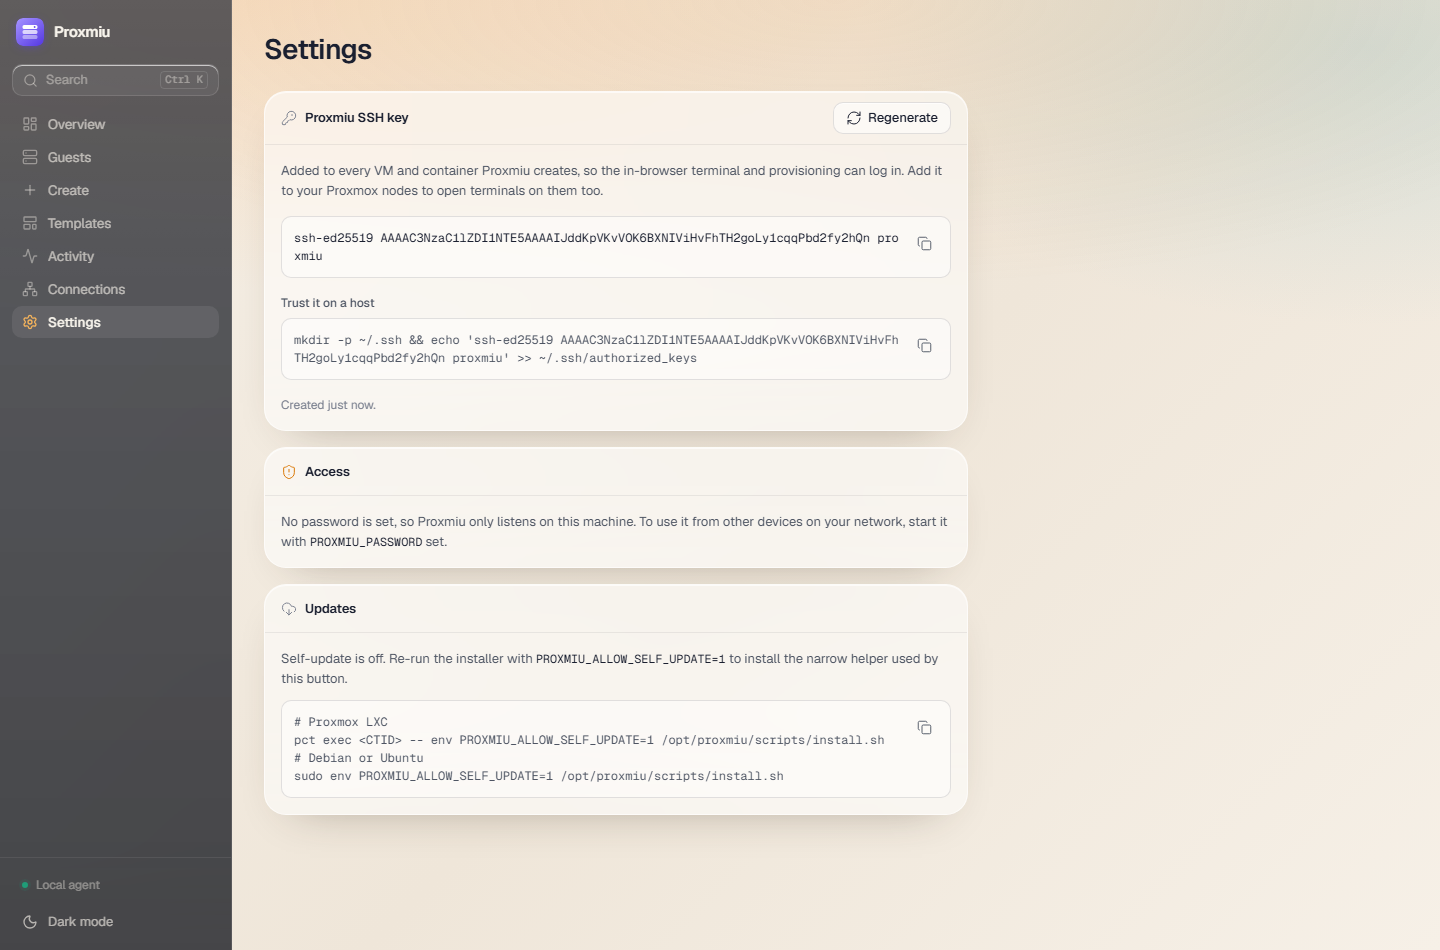
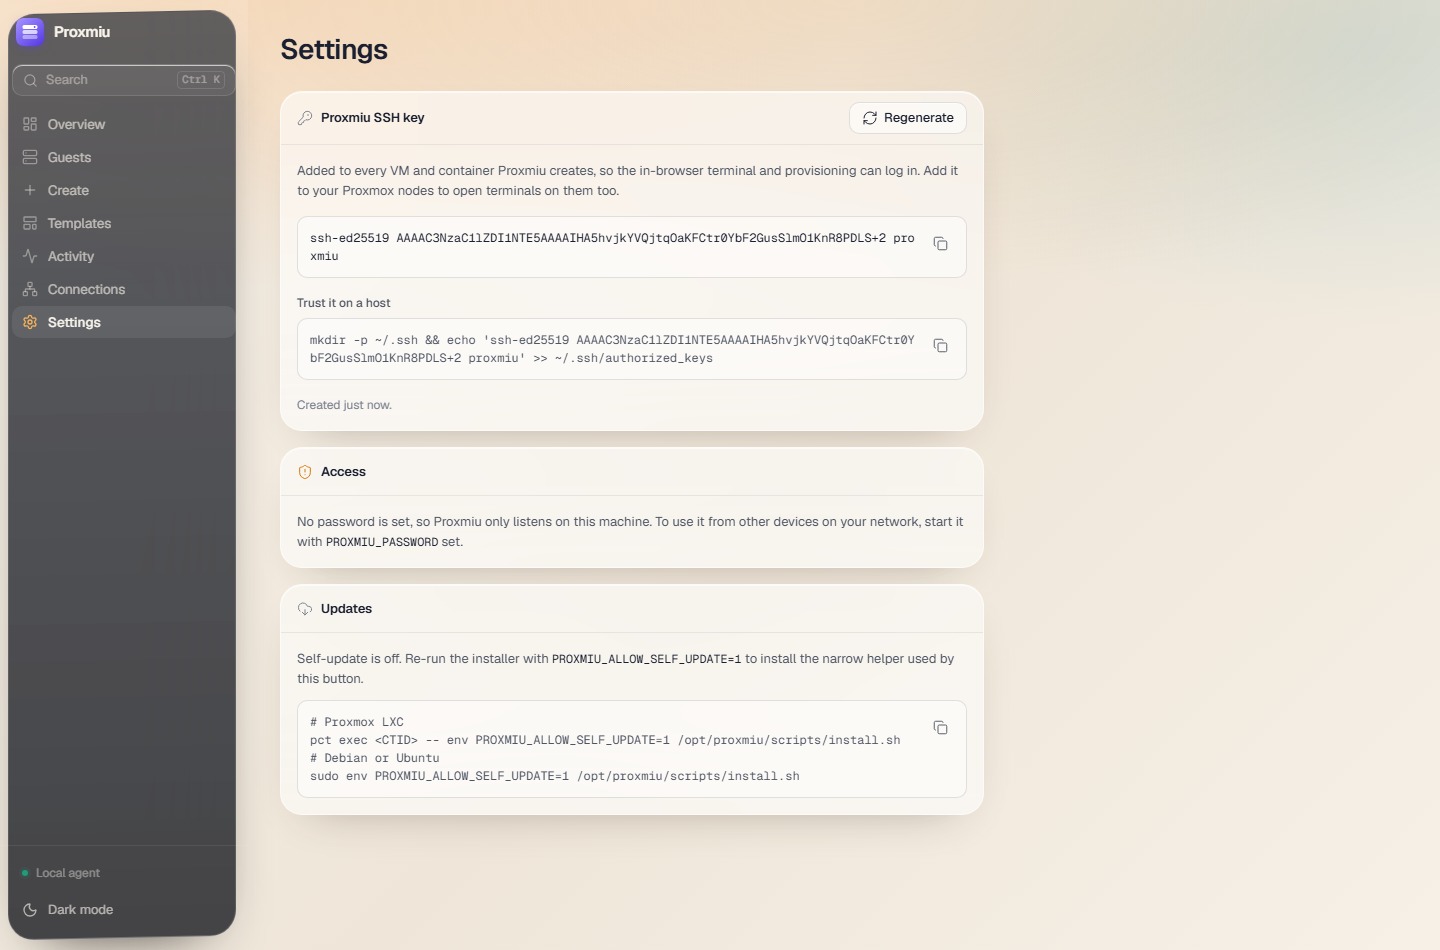
Show the skewed sidebar in the screenshots

diff --git a/index.html b/index.html
@@ -18,11 +18,11 @@
       property="og:description"
       content="Power actions, browser SSH, and ready-to-use AI dev boxes from templates. Self-hosted on your LAN."
     />
-    <meta property="og:image" content="https://proxmiu.com/screenshots/overview.png?v=2" />
+    <meta property="og:image" content="https://proxmiu.com/screenshots/overview.png?v=3" />
     <meta name="twitter:card" content="summary_large_image" />
     <meta name="twitter:title" content="Proxmiu — manage Proxmox VE from the browser" />
     <meta name="twitter:description" content="Power actions, browser SSH, and ready-to-use AI dev boxes from templates. Self-hosted on your LAN." />
-    <meta name="twitter:image" content="https://proxmiu.com/screenshots/overview.png?v=2" />
+    <meta name="twitter:image" content="https://proxmiu.com/screenshots/overview.png?v=3" />
     <link rel="icon" type="image/svg+xml" href="favicon.svg" />
     <link rel="apple-touch-icon" href="apple-touch-icon.png" />
     <link rel="stylesheet" href="styles.css" />
@@ -69,7 +69,7 @@
       </section>
 
       <section class="hero-shot">
-        <img src="screenshots/overview.png?v=2" alt="Proxmiu overview showing nodes, guests and live resource usage" />
+        <img src="screenshots/overview.png?v=3" alt="Proxmiu overview showing nodes, guests and live resource usage" />
       </section>
 
       <section id="features" class="section">
@@ -135,37 +135,37 @@
         </div>
         <div class="shots">
           <figure class="shot-wide">
-            <img src="screenshots/guests.png?v=2" alt="Guest list with live status, addresses and actions" loading="lazy" />
+            <img src="screenshots/guests.png?v=3" alt="Guest list with live status, addresses and actions" loading="lazy" />
             <figcaption><strong>Guests.</strong> Live status, addresses and usage with one-click SSH, reboot and more.</figcaption>
           </figure>
           <figure>
-            <img src="screenshots/create.png?v=2" alt="Creating a Claude Code server from a template" loading="lazy" />
+            <img src="screenshots/create.png?v=3" alt="Creating a Claude Code server from a template" loading="lazy" />
             <figcaption><strong>Create.</strong> A Claude Code server from a template, with every setting adjustable.</figcaption>
           </figure>
           <figure>
-            <img src="screenshots/settings.png?v=2" alt="Proxmiu settings with the SSH key and self-update" loading="lazy" />
+            <img src="screenshots/settings.png?v=3" alt="Proxmiu settings with the SSH key and self-update" loading="lazy" />
             <figcaption><strong>Settings and updates.</strong> Your key, access, and opt-in agent updates in one place.</figcaption>
           </figure>
           <figure class="shot-wide">
-            <img src="screenshots/command-palette.png?v=2" alt="Proxmiu command palette" loading="lazy" />
+            <img src="screenshots/command-palette.png?v=3" alt="Proxmiu command palette" loading="lazy" />
             <figcaption><strong>Command palette.</strong> Jump to any guest, template or page without leaving the keyboard.</figcaption>
           </figure>
           <figure>
-            <img src="screenshots/templates.png?v=2" alt="Proxmiu template gallery" loading="lazy" />
+            <img src="screenshots/templates.png?v=3" alt="Proxmiu template gallery" loading="lazy" />
             <figcaption><strong>Templates.</strong> Built-in AI boxes, custom recipes and Community Scripts.</figcaption>
           </figure>
           <figure>
-            <img src="screenshots/connections.png?v=2" alt="Proxmiu connections and host discovery" loading="lazy" />
+            <img src="screenshots/connections.png?v=3" alt="Proxmiu connections and host discovery" loading="lazy" />
             <figcaption><strong>Connections.</strong> Find Proxmox hosts on your LAN and keep them together.</figcaption>
           </figure>
           <figure class="shot-wide">
-            <img src="screenshots/overview-dark.png?v=2" alt="Proxmiu overview in dark mode" loading="lazy" />
+            <img src="screenshots/overview-dark.png?v=3" alt="Proxmiu overview in dark mode" loading="lazy" />
             <figcaption><strong>Dark mode.</strong> The same warm glass language, tuned for low light.</figcaption>
           </figure>
         </div>
         <div class="mobile-showcase">
-          <img src="screenshots/mobile-overview.png?v=2" alt="Proxmiu on an iPhone: overview" loading="lazy" />
-          <img src="screenshots/mobile-guests.png?v=2" alt="Proxmiu on an iPhone: guests" loading="lazy" />
+          <img src="screenshots/mobile-overview.png?v=3" alt="Proxmiu on an iPhone: overview" loading="lazy" />
+          <img src="screenshots/mobile-guests.png?v=3" alt="Proxmiu on an iPhone: guests" loading="lazy" />
           <div>
             <div class="eyebrow">On the go</div>
             <h3>The homelab in your pocket.</h3>
